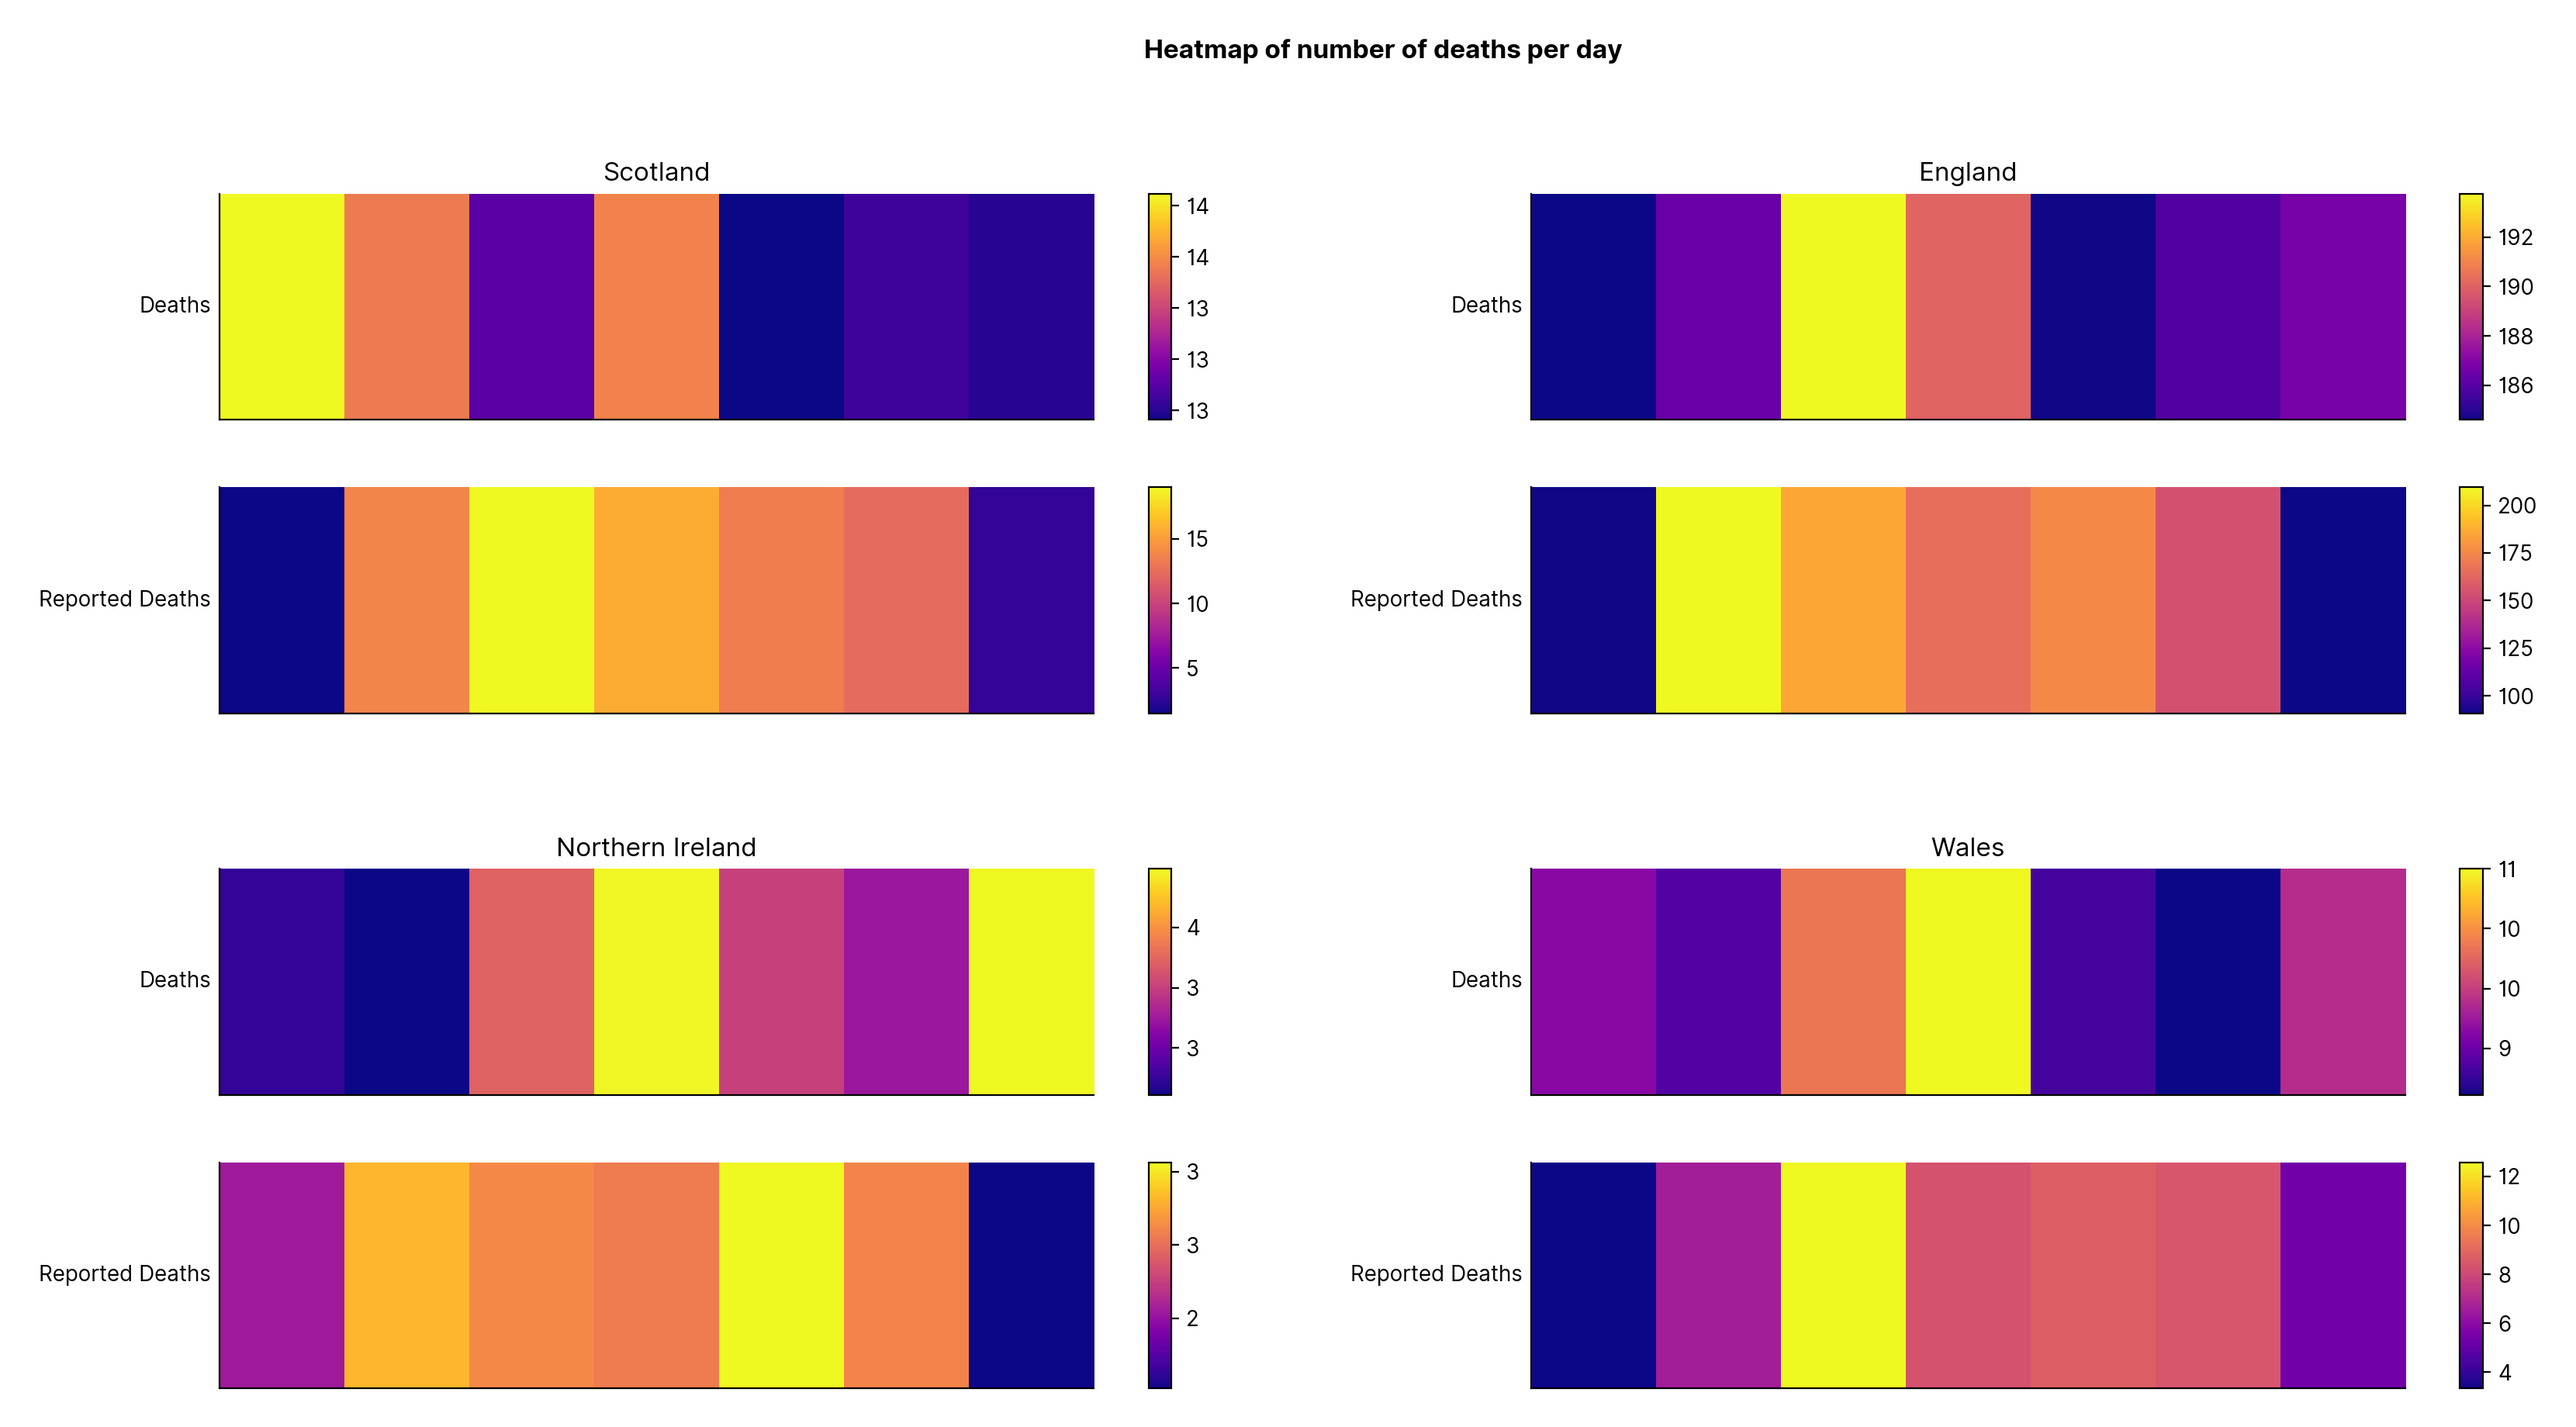
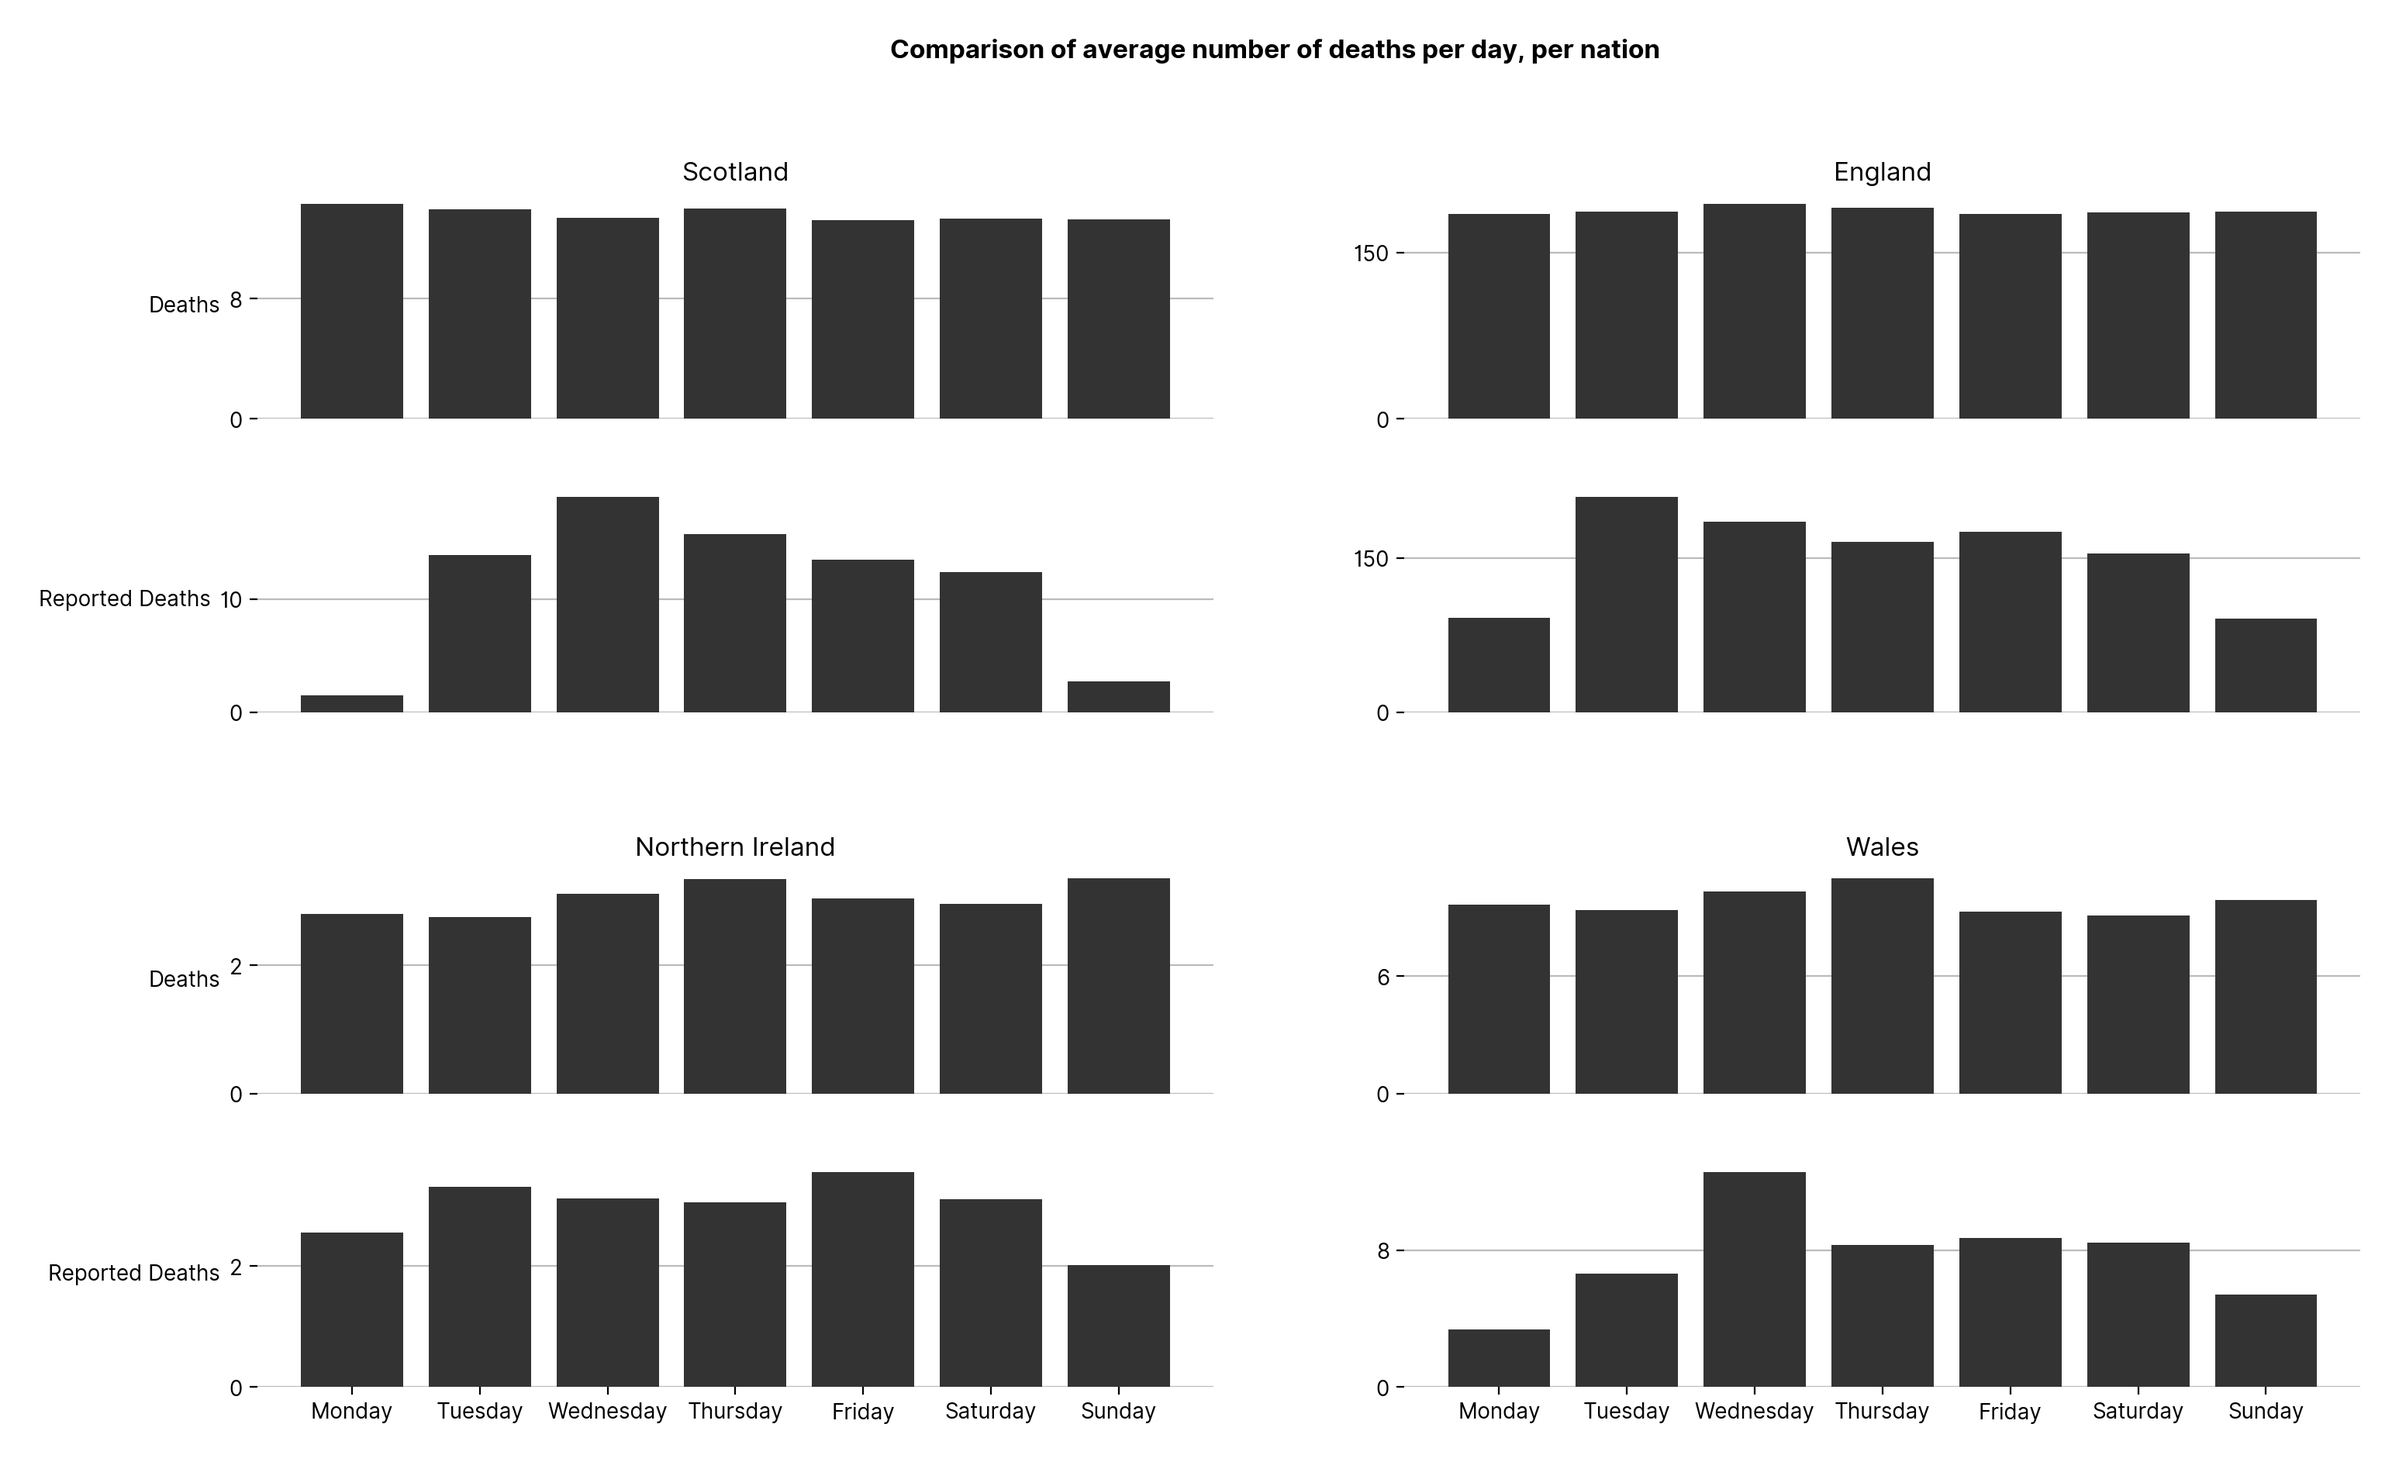
Improve the heatmap plots

diff --git a/plot.py b/plot.py
@@ -886,25 +886,31 @@ def heatMapPlot(t, dataDir="data/", plotsDir="plots/"):
 
         return dataFrames
 
-    def plotHeatmap(ax, name, dataFrames):
-        ax.set_ylabel(name, rotation=0, ha="right", va="center")
-        ax.tick_params(axis="y", which="both", left=False, labelleft=False)
-        hm = ax.imshow([dataFrames], cmap="plasma", interpolation="none", aspect="auto")
-        plt.colorbar(hm, ax=ax, format=threeFigureFormatter, aspect=10)
-        # ax.bar(range(7), dataFrames["Number"])
+    def plotHeatmap(ax, name, dataFrames, color, hide=0):
+        if hide == 0:
+            ax.set_ylabel(name, rotation=0, ha="right", va="center")
 
-        removeSpines(ax)
+        ax.bar(range(7), dataFrames["Number"], color=color)
+        ax.yaxis.set_major_locator(plt.MaxNLocator(2))
+        threeFigureAxis(ax)
+
+        removeSpines(ax, all=True)
+        showGrid(ax, color="#bbb")
 
     casesBoolean = [1, 0]
     fignames = ["TestsCases", "Deaths"]
-    titles = ["tests/cases", "deaths"]
+    titles = ["tests and cases", "deaths"]
 
     names = [
         ["Tests", "Cases (reported date)", "Cases (specimen date)"],
         ["Deaths", "Reported Deaths"],
     ]
 
+    colors = [["#2271d3", "orangered", "orangered"], ["#333", "#333", "#333"]]
+
     for i in range(2):
+        title = "Comparison of average number of %s per day" % titles[i]
+
         # UK
         dataFrames = getDataframes("UK", casesBoolean[i])
 
@@ -915,15 +921,17 @@ def heatMapPlot(t, dataDir="data/", plotsDir="plots/"):
         for j, ax in enumerate(axs):
             plt.xticks(ticks=list(range(7)), labels=days)
 
-            plotHeatmap(ax, names[i][j], dataFrames[j])
+            plotHeatmap(ax, names[i][j], dataFrames[j], colors[i][j])
 
-        fig.suptitle("Heatmap of number of %s per day" % titles[i], fontweight="bold")
+        fig.suptitle(title, fontweight="bold")
 
-        savePlot(plotsDir, figname, fig, (10, 5))
+        savePlot(plotsDir, figname, fig)
 
         # Nations
+        figname = fignames[i] + "HeatMap-Nation"
+        updateProgressBar(figname, t)
+
         nations = ["Scotland", "England", "Northern Ireland", "Wales"]
-        colors = ["#003078", "#5694CA", "#FFDD00", "#D4351C"]
         nationsDf = []
 
         for nation in nations:
@@ -931,35 +939,34 @@ def heatMapPlot(t, dataDir="data/", plotsDir="plots/"):
 
             nationsDf.append(nationDataFrame)
 
-        figname = fignames[i] + "HeatMap-Nation"
-        updateProgressBar(figname, t)
-
-        fig = plt.figure(figsize=(20, 10))
+        fig = plt.figure()
         outerAxs = gridspec.GridSpec(2, 2, hspace=0.3)
 
-        fig.suptitle("Heatmap of number of %s per day" % titles[i], fontweight="bold")
+        fig.suptitle(title + ", per nation", fontweight="bold")
 
-        for k in range(4):
+        for k in range(len(nationsDf)):
             inner = outerAxs[k].subgridspec(len(nationsDf[0]), 1, hspace=0.3)
 
-            for j in range(len(nationsDf[0])):
+            axsRows = len(nationsDf[0])
+
+            for j in range(axsRows):
                 ax = fig.add_subplot(inner[j])
                 if j == 0:
                     ax.set_title(nations[k])
                     ax.tick_params(
                         axis="x", which="both", bottom=False, labelbottom=False
                     )
-                elif j == 1:
+                elif j == axsRows - 1 and k > 1:
+                    plt.xticks(ticks=list(range(7)), labels=days)
+                else:
                     ax.tick_params(
                         axis="x", which="both", bottom=False, labelbottom=False
                     )
-                elif j == 2:
-                    plt.xticks(ticks=list(range(7)), labels=days)
 
-                plotHeatmap(ax, names[i][j], nationsDf[k][j])
+                plotHeatmap(ax, names[i][j], nationsDf[k][j], colors[i][j], hide=k % 2)
                 fig.add_subplot(ax)
 
-        savePlot(plotsDir, figname, fig, (20, 10))
+        savePlot(plotsDir, figname, fig, (17.5, 10))
 
 
 # Helpers ------------------------------------------------------------------------------
@@ -987,8 +994,8 @@ def removeSpines(ax, all=False):
 
 
 # Y axis
-def showGrid(ax):
-    ax.grid(color="#e5e5e5", which="major", axis="y", linestyle="solid")
+def showGrid(ax, color="#e5e5e5"):
+    ax.grid(color=color, which="major", axis="y", linestyle="solid")
     ax.set_axisbelow(True)
 
 
@@ -1129,9 +1136,9 @@ if __name__ == "__main__":
         )
 
         bools = [False, True]
-        for bool in bools:
-            mainPlot(t, dataDir, plotsDir, avg=bool)
-            nationReportedPlot(t, dataDir, plotsDir, avg=bool)
+        # for bool in bools:
+        #     mainPlot(t, dataDir, plotsDir, avg=bool)
+        #     nationReportedPlot(t, dataDir, plotsDir, avg=bool)
 
         heatMapPlot(t, dataDir, plotsDir)
 
